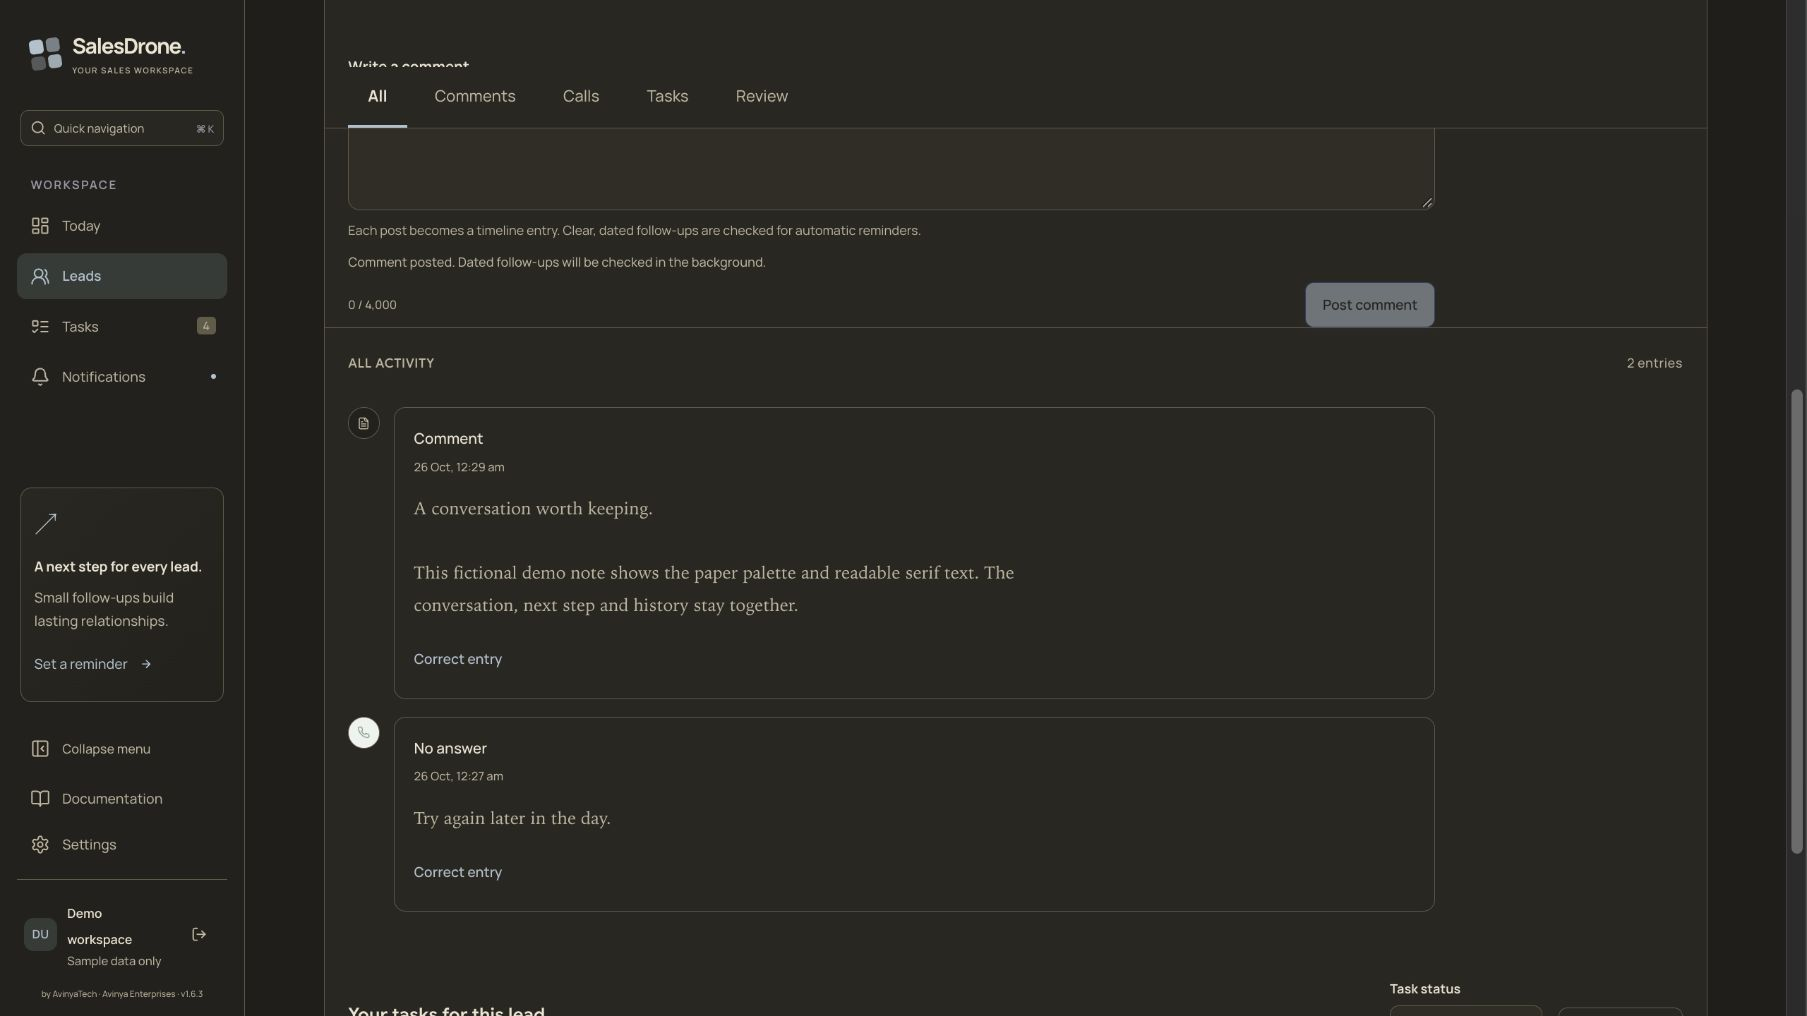
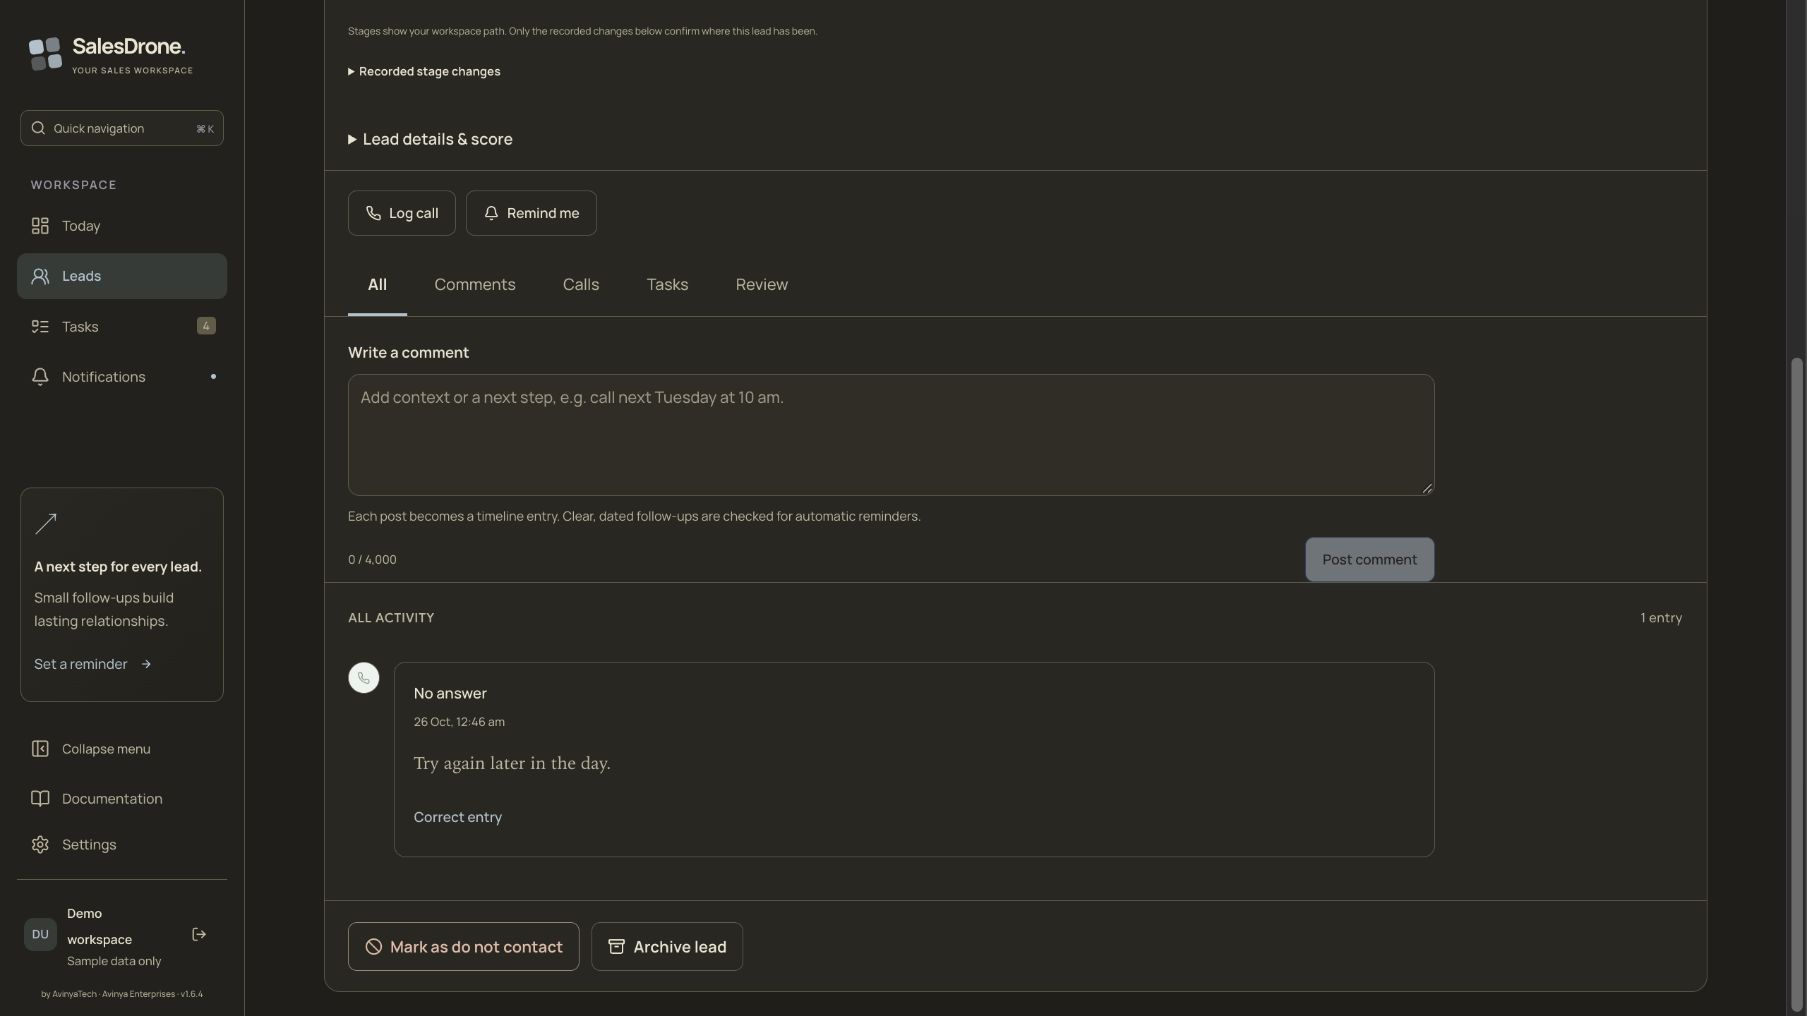
fix: focus lead tasks tab and improve lifecycle buttons (v1.6.4)

diff --git a/apps/web/src/App.tsx b/apps/web/src/App.tsx
@@ -46,6 +46,8 @@ import {
 } from 'react';
 import { onAuthStateChanged, signOut } from 'firebase/auth';
 import {
+  Archive,
+  Ban,
   LayoutDashboard,
   UsersRound,
   ListTodo,
@@ -2551,8 +2553,7 @@ export default function App() {
                           ) : null}
                         </div>
                       ) : null}
-                      {routeLeadId &&
-                      (leadTab === 'tasks' || leadTab === 'all') ? (
+                      {routeLeadId && leadTab === 'tasks' ? (
                         <section>
                           <LeadTaskTab
                             refreshKey={dashboardRefreshKey}
@@ -2569,7 +2570,9 @@ export default function App() {
                       <div className="detail-section detail-admin-actions">
                         {selected.needsReview ? (
                           <button
-                            className="text-button"
+                            className="button"
+                            type="button"
+                            disabled={mutationBusy || detailBusy}
                             onClick={() =>
                               void leadAction({ needsReview: false })
                             }
@@ -2578,7 +2581,9 @@ export default function App() {
                           </button>
                         ) : null}
                         <button
-                          className="text-button danger"
+                          className="button lead-contact-action"
+                          type="button"
+                          disabled={mutationBusy || detailBusy}
                           onClick={() => {
                             if (selected.doNotContact)
                               void leadAction({
@@ -2597,12 +2602,15 @@ export default function App() {
                             }
                           }}
                         >
+                          <Ban size={18} aria-hidden="true" />
                           {selected.doNotContact
                             ? 'Remove do-not-contact flag'
                             : 'Mark as do not contact'}
                         </button>
                         <button
-                          className="text-button muted"
+                          className="button lead-archive-action"
+                          type="button"
+                          disabled={mutationBusy || detailBusy}
                           onClick={async () => {
                             try {
                               await request(
@@ -2620,7 +2628,7 @@ export default function App() {
                             }
                           }}
                         >
-                          Archive lead
+                          <Archive size={18} aria-hidden="true" /> Archive lead
                         </button>
                       </div>
                     ) : null}

diff --git a/apps/web/src/lead-workspace.css b/apps/web/src/lead-workspace.css
@@ -550,3 +550,43 @@
   min-width: 0;
   grid-column: 1 / -1 !important;
 }
+
+/* Lead lifecycle controls are full-size actions, not low-contrast footnotes. */
+.detail-admin-actions {
+  flex-direction: row;
+  flex-wrap: wrap;
+  gap: 12px;
+  align-items: center;
+}
+.detail-admin-actions .button {
+  font-size: 1rem;
+  font-weight: 650;
+  line-height: 1.5;
+  min-height: 46px;
+  max-width: 100%;
+  white-space: normal;
+  gap: 8px;
+  padding: 12px 16px;
+  justify-content: center;
+}
+.detail-admin-actions .button svg {
+  flex-shrink: 0;
+}
+.detail-admin-actions .lead-contact-action {
+  color: var(--book-danger-text, #9e293b);
+  border-color: color-mix(in srgb, currentColor 45%, var(--line));
+  background: var(--panel);
+}
+:root[data-color-scheme='dark'] .detail-admin-actions .lead-contact-action {
+  color: var(--book-danger-text, #ffb4ba);
+}
+@media (hover: hover) and (pointer: fine) {
+  .detail-admin-actions .lead-contact-action:hover {
+    background: color-mix(in srgb, currentColor 8%, var(--panel));
+  }
+}
+@media (max-width: 600px) {
+  .detail-admin-actions .button {
+    width: 100%;
+  }
+}

diff --git a/skills/salesdrone-interface/SKILL.md b/skills/salesdrone-interface/SKILL.md
@@ -79,8 +79,10 @@ Full-page identity overrides the compact blade’s stacked name: use inline name
 
 InlineCommentComposer is mounted per lead/account and hidden rather than unmounted on tab switches. Keep draft memory-only, no autofocus on navigation, 16px textarea text, left-aligned timeline, visible loading/error recovery and disabled blank/in-flight posts. Guard selected identity and detail epochs for refresh/pagination/Back navigation. Use browser-storage helpers for noncritical preferences and sign-in cleanup. Avatar initials must handle grapheme clusters and missing names.
 
-All is the initial full-page view and includes every loaded activity, contact/follow-up review information and recipient-private tasks. Comments filters type=note (including imported discussions); Calls filters type=call. Filter locally over authorized loaded pages without changing order or duplicating review entries. Earlier activity remains available in filtered empty states; never imply unloaded history is complete. Keep inline drafts mounted and available in All and Comments; use five-tab keyboard wrapping and responsive scrolling. No additional API, permissions or business events are required.
+All is the initial full-page view and includes every loaded activity, contact/follow-up review information. The private task list appears only in Tasks, avoiding duplication in All. Comments filters type=note (including imported discussions); Calls filters type=call. Filter locally over authorized loaded pages without changing order or duplicating review entries. Earlier activity remains available in filtered empty states; never imply unloaded history is complete. Keep inline drafts mounted and available in All and Comments; use five-tab keyboard wrapping and responsive scrolling. No additional API, permissions or business events are required.
 
 ThemeToggle animates only decorative sun/moon transforms and atmospheric opacity across a clipped horizon. The actual preference applies immediately; CSS transitions are reversible, no overlay blocks input, and reduced motion disables transitions. Keep the 44px target, accessible destination label and disabled live-save state. System changes must update the settled icon without storing an unintended explicit preference.
 
 Book mode uses data-reading-mode and resolved data-color-scheme at the shared root, with book-mode.css imported last. Warm paper/charcoal tokens must cover forms, tables, overlays and charts without layout changes. Serif typography is limited to reading passages; preserve Google Sans identity/headings, readable controls and monospace phones. Quick theme switching preserves bookMode. Never write a live account’s reading preference into the guest fallback, or inherit another account’s stored setting. Test both palettes, enable/save/disable, navigation, focused inputs and 390px overflow; no claim of hardware e-ink or physical-device certification.
+
+The full-page private task list mounts only in Tasks, not All. Keep All focused on loaded conversations and review information. Lead lifecycle controls use 46px minimum-height icon/text buttons, 16px labels, readable day/night/Book-mode danger colours, and full width on narrow screens. Do not style them as footnote text.

diff --git a/README.md b/README.md
@@ -12,7 +12,7 @@
 [![Node.js 22](https://img.shields.io/badge/Node.js-22-43853d?logo=nodedotjs&logoColor=white)](https://nodejs.org/)
 [![Gemini](https://img.shields.io/badge/AI-Gemini-0756a5?logo=googlegemini&logoColor=white)](https://ai.google.dev/)
 
-**Part of Avinya Enterprises · v1.6.3 · MIT**
+**Part of Avinya Enterprises · v1.6.4 · MIT**
 
 A sales workspace that keeps an enquiry, its conversations and its next step together. Built with React, Firebase and Gemini, with a responsive interface for desktop and mobile.
 
@@ -45,7 +45,7 @@ The notification bell opens an overlay without losing your place. Assignment and
 <details>
 <summary>Mobile lead view</summary>
 
-<img src="site/assets/screenshots/mobile-demo.jpg?sha=ca31c3595a3a" alt="A fictional lead’s journey on mobile" width="320">
+<img src="site/assets/screenshots/mobile-demo.jpg?sha=fcfd1373f68a" alt="A fictional lead’s journey on mobile" width="320">
 
 </details>
 
@@ -129,11 +129,11 @@ The [lead overlay](docs/LEAD-BLADE.md) can be resized on desktop without changin
 
 Read the [complete product handbook](https://theharithsa.github.io/SalesDrone/product.html) for module workflows, permissions, troubleshooting and FAQs. The [full settings reference](https://theharithsa.github.io/SalesDrone/settings.html) explains every control. Documentation is also linked above Settings in the app.
 
-![Lead workspace with All, Comments, Calls, Tasks and Review tabs](site/assets/screenshots/lead-workspace-demo.jpg?sha=290758788773)
+![Lead workspace with All, Comments, Calls, Tasks and Review tabs](site/assets/screenshots/lead-workspace-demo.jpg?sha=f4c03d9728e5)
 
 The v1.6.1 maintenance improved inline comment entry and UI recovery without changing the displayed version, as requested. The original tag is preserved; deployments remain distinguishable by commit and Actions run. See [UI stability review](docs/UI-STABILITY.md).
 
-The full lead page opens in **All**: loaded activity, review information and your private tasks. **Comments** shows notes and imported discussions; **Calls** shows only logged calls. Filtered views still offer Earlier activity for unloaded history.
+The full lead page opens in **All**: loaded activity and review information. Your private task list stays in **Tasks**. **Comments** shows notes and imported discussions; **Calls** shows only logged calls. Filtered views still offer Earlier activity for unloaded history.
 
 **v1.6.2** standardized Dynatrace CloudEvents delivery and added a sunrise/sunset theme control. [Book mode is available in v1.6.3](docs/BOOK-MODE-PLAN.md). See the [BizEvents catalog and troubleshooting guide](docs/BUSINESS-EVENTS.md).
 

diff --git a/docs/PRODUCT-GUIDE.md b/docs/PRODUCT-GUIDE.md
@@ -1,6 +1,6 @@
 # SalesDrone product handbook
 
-Version 1.6.3
+Version 1.6.4
 
 [Complete settings reference](SETTINGS.md) · [API guide](API.md) · [Technical architecture](TECHNICAL.md)
 
@@ -100,7 +100,7 @@ Members who can read the lead
 
 3. Read the horizontal journey. Expand Recorded stage changes for actual recorded transitions. Open Lead details & score when you need the full enquiry context.
 
-4. All opens first and includes every loaded activity, review information and your private linked tasks. Choose Comments for notes and imported discussion comments, Calls for call entries only, Tasks for your linked work, or Review for issues needing attention. All and Comments include the inline Write a comment field. Arrow keys move between tabs; Home/End select the first/last tab.
+4. All opens first and includes every loaded activity and review information. Your private linked tasks appear only in Tasks. Choose Comments for notes and imported discussion comments, Calls for call entries only, Tasks for your linked work, or Review for issues needing attention. All and Comments include the inline Write a comment field. Arrow keys move between tabs; Home/End select the first/last tab.
 
 5. Use Back to leads to return to the list. Filters remain available during the current session; a shared link still requires sign-in and current permission.
 
@@ -111,6 +111,8 @@ Tasks is recipient-private. Its status filter includes Pending, Completed and Ca
 Review shows contact review/suppression information and automatic follow-ups with Pending, Failed or NeedsReview state in the loaded activity. It is not an approval queue for every company operation. Load earlier activity to inspect older entries; an empty loaded page does not prove all historical work is reviewed. Use the existing reminder card to set a date, retry or dismiss when allowed.
 
 The full-page identity header reads first and last names horizontally. Long names wrap naturally, with company below and the stage badge moving below the name in narrow containers.
+
+Lead actions at the bottom use full-size buttons. Mark as do not contact pauses eligible outreach; Archive lead archives the record. Neither label means permanent deletion. Buttons wrap on narrow screens, retain keyboard focus and follow the existing permission/loading checks.
 
 ### Questions
 

diff --git a/skills/salesdrone-conversations/SKILL.md b/skills/salesdrone-conversations/SKILL.md
@@ -67,4 +67,4 @@ The full lead page presents revision-preserving paginated history as readable co
 
 The full-page Comments tab posts inline via the existing activity contract; compact inspection retains NoteForm. comment-attempt.ts preserves exact key/version/payload for unchanged uncertain retries, resets on confirmed version conflicts and never writes blank input. Clear drafts only after a confirmed post; distinguish refresh failure from write failure and guard callbacks after unmount. Drafts survive tab switches, not leaving the lead or reloading. Paginated history is deduplicated and guarded by current detail/session epoch.
 
-All is the initial full-page view and includes every loaded activity, contact/follow-up review information and recipient-private tasks. Comments filters type=note (including imported discussions); Calls filters type=call. Filter locally over authorized loaded pages without changing order or duplicating review entries. Earlier activity remains available in filtered empty states; never imply unloaded history is complete. Keep inline drafts mounted and available in All and Comments; use five-tab keyboard wrapping and responsive scrolling. No additional API, permissions or business events are required.
+All is the initial full-page view and includes every loaded activity, contact/follow-up review information. The private task list appears only in Tasks, avoiding duplication in All. Comments filters type=note (including imported discussions); Calls filters type=call. Filter locally over authorized loaded pages without changing order or duplicating review entries. Earlier activity remains available in filtered empty states; never imply unloaded history is complete. Keep inline drafts mounted and available in All and Comments; use five-tab keyboard wrapping and responsive scrolling. No additional API, permissions or business events are required.

diff --git a/docs/LEAD-BLADE.md b/docs/LEAD-BLADE.md
@@ -16,4 +16,4 @@ Full-page identity uses an inline first/family name with natural wrapping. Avata
 
 Full-page Comments starts with an inline Write a comment field, followed by left-aligned cards. Drafts survive tab switches for the same lead, but are memory-only and disappear when leaving the lead/account or reloading. Successful posts clear the field; failed posts retain it. Posting uses existing version/idempotency policy. Stale pagination and late form callbacks must not replace the active lead or close another dialog.
 
-All is the initial full-page view and includes every loaded activity, contact/follow-up review information and recipient-private tasks. Comments filters type=note (including imported discussions); Calls filters type=call. Filter locally over authorized loaded pages without changing order or duplicating review entries. Earlier activity remains available in filtered empty states; never imply unloaded history is complete. Keep inline drafts mounted and available in All and Comments; use five-tab keyboard wrapping and responsive scrolling. No additional API, permissions or business events are required.
+All is the initial full-page view and includes every loaded activity, contact/follow-up review information. The private task list appears only in Tasks, avoiding duplication in All. Comments filters type=note (including imported discussions); Calls filters type=call. Filter locally over authorized loaded pages without changing order or duplicating review entries. Earlier activity remains available in filtered empty states; never imply unloaded history is complete. Keep inline drafts mounted and available in All and Comments; use five-tab keyboard wrapping and responsive scrolling. No additional API, permissions or business events are required.

diff --git a/docs/API.md b/docs/API.md
@@ -197,7 +197,7 @@ Inline comment entry uses the existing POST lead activities operation, including
 
 ### Lead activity views
 
-All, Comments and Calls are presentation filters over the same authorized, paginated GET `/api/v1/leads/{id}/activities` result. Comments selects note entries (including imported discussions), Calls selects call entries, and All preserves all types and review metadata in source order. All also reuses recipient-private GET `/api/v1/tasks?leadId=...`; it grants no access to another member’s tasks. No new endpoint, scope or API contract version is introduced. Earlier activity remains necessary to inspect unloaded history.
+All, Comments and Calls are presentation filters over the same authorized, paginated GET `/api/v1/leads/{id}/activities` result. Comments selects note entries (including imported discussions), Calls selects call entries, and All preserves all types and review metadata in source order. The Tasks tab uses recipient-private GET `/api/v1/tasks?leadId=...`; the task list is not repeated in All, and grants no access to another member’s tasks. No new endpoint, scope or API contract version is introduced. Earlier activity remains necessary to inspect unloaded history.
 
 ## Preferences: Book mode (contract 1.13.0)
 

diff --git a/docs/observability.md b/docs/observability.md
@@ -110,3 +110,5 @@ Lead All/Comments/Calls tabs reuse existing safe navigation and API telemetry. L
 See [the business event catalog, diagnostics and DQL templates](BUSINESS-EVENTS.md). The committed outbox and GitHub deployment notifier now send application/cloudevent+json with consistent provider fields. The original ordinary-JSON receipts were accepted but their intended field normalization was not tenant-verified. Preserve historical IDs; do not replay delivered records. A bounded salesdrone.bizevents.delivery counter records finalized delivery attempts by outcome/status class; lease-loss attempts cannot report success. Source/delivery trace limits and privacy exclusions remain unchanged.
 
 Book mode (v1.6.3) is a self-owned cosmetic preference. Reuse existing safe PATCH /me request spans/logs/metrics and release BizEvents. Do not emit a lead/business conversion or capture text, palette values or per-keystroke events for a style change; preference records remain excluded from the business-domain outbox.
+
+The v1.6.4 lifecycle-button and task-tab layout correction reuses existing suppression/archive request telemetry and committed events. Do not create conversion events for cosmetic button changes, expose customer text or change private task scopes.

diff --git a/docs/SETTINGS.md b/docs/SETTINGS.md
@@ -1,6 +1,6 @@
 # Customize SalesDrone
 
-Settings guide for **v1.6.3**. Desktop groups expand to reveal their sections; mobile uses a grouped Settings section selector. Admin-only sections are hidden for other members. Changes to workspace data are authorized by the API, not by navigation.
+Settings guide for **v1.6.4**. Desktop groups expand to reveal their sections; mobile uses a grouped Settings section selector. Admin-only sections are hidden for other members. Changes to workspace data are authorized by the API, not by navigation.
 
 ## Personal → Profile
 

diff --git a/skills/salesdrone-leads/SKILL.md b/skills/salesdrone-leads/SKILL.md
@@ -76,3 +76,5 @@ Adjacent owners:
 - [salesdrone-lead-journey](../salesdrone-lead-journey/SKILL.md)
 - [salesdrone-imports](../salesdrone-imports/SKILL.md)
 - [salesdrone-notifications](../salesdrone-notifications/SKILL.md)
+
+Lead lifecycle actions use full-size labelled buttons with Archive and do-not-contact icons, responsive wrapping and existing capability/loading guards. Preserve the distinct archive/suppression contracts: do not invent a permanent Delete lead action or rename suppression as deletion. Reuse existing handlers and backend policy.

diff --git a/CHANGELOG.md b/CHANGELOG.md
@@ -14,6 +14,14 @@ API contract versions are independent from application versions.
 
 
 
+
+## [1.6.4] - 2026-10-26
+
+### Changed
+- Keep the private lead task list in Tasks only; remove the duplicate from All.
+- Replace small lead suppression/archive links with readable icon buttons, responsive sizing and theme-aware emphasis. Preserve existing action semantics and permissions.
+- Update the handbook, owner skills and reviewed demo captures.
+
 ## [1.6.3] - 2026-10-26
 
 ### Changed
